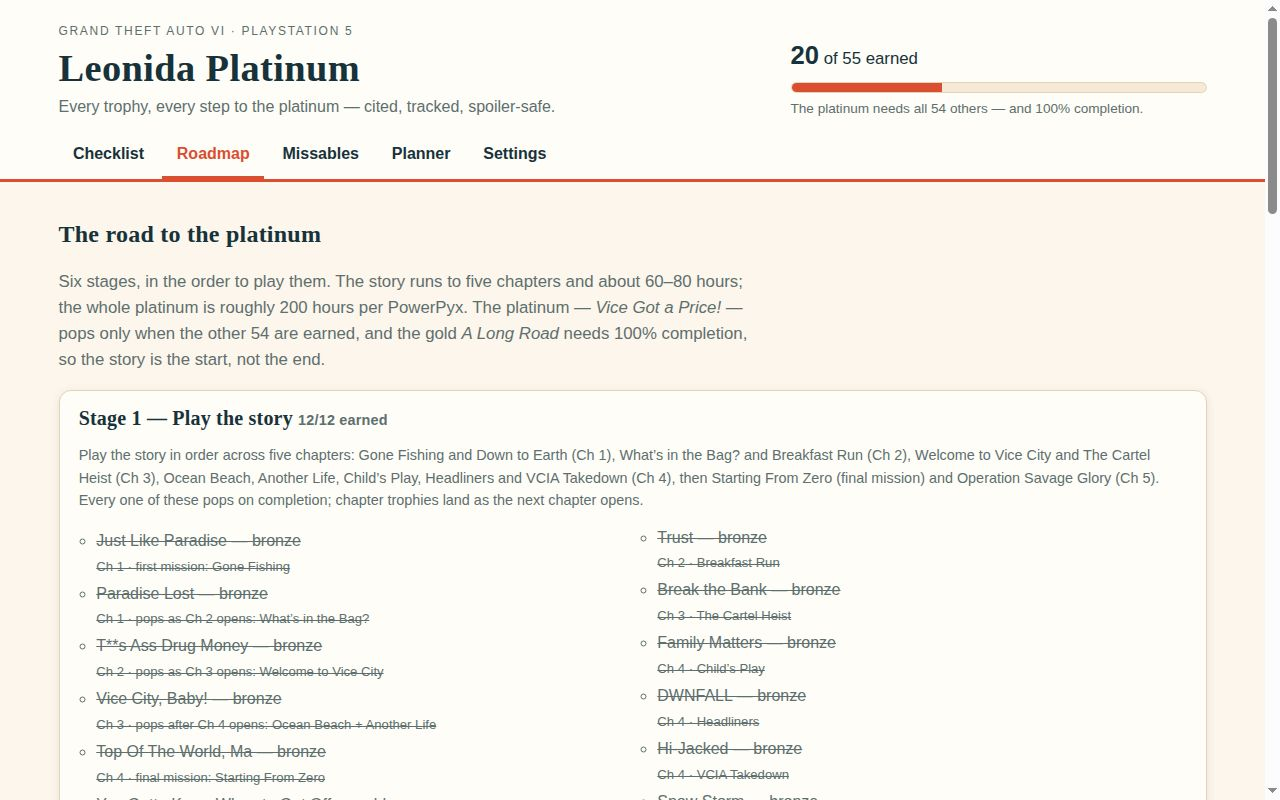
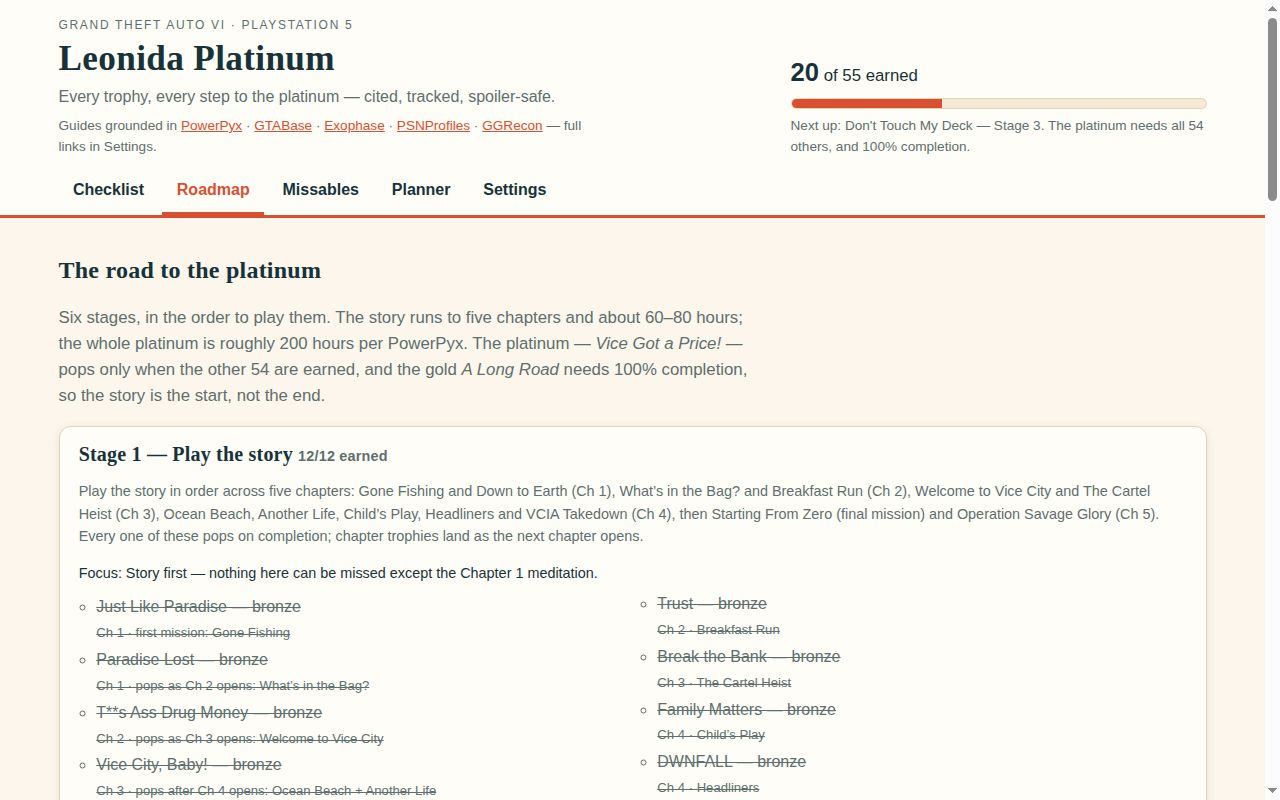
Leonida Platinum round 4: sources visible on the cover, richer short guides, next-up header

Changed region(s): [[0.0, 0.0312, 1.0, 1.0], [0.5938, 0.0625, 0.9375, 0.1875]]

diff --git a/app/js/views.js b/app/js/views.js
@@ -1,6 +1,6 @@
 // Checklist view: the trophy cards, and the detail pane with guide + sources.
 import { applyChecklistFilters, displayDescription, displayName, isSpoilerHidden } from './filters.js';
-import { KIND_LABELS } from './data.js';
+import { KIND_LABELS, shortSourceNames } from './data.js';
 
 export function renderKindCounters(container, trophies, earnedIds) {
   const kinds = ['story', 'missable', 'collectibles', 'activities'];
@@ -114,26 +114,29 @@ export function renderDetail(detailElement, trophy, state, onSaveNote) {
   const officialText = document.createElement('p');
   officialText.textContent = hidden ? 'Hidden on PlayStation until earned.' : trophy.description;
   official.append(officialTitle, officialText);
+  // Round 4: the sources sit ABOVE the guide as one compact linked line,
+  // so they are visible in the first screenshot instead of falling below
+  // the fold under a long guide — the judge sees the citation either way.
+  const sourcesLine = document.createElement('p');
+  sourcesLine.className = 'sources-inline sources';
+  const sourcesLabel = document.createElement('strong');
+  sourcesLabel.textContent = 'Sources: ';
+  sourcesLine.append(sourcesLabel);
+  (trophy.sources || []).forEach((source, index) => {
+    if (index > 0) sourcesLine.append(document.createTextNode(' · '));
+    const link = document.createElement('a');
+    link.href = source.url;
+    link.textContent = shortSourceNames(trophy)[index] || source.label;
+    link.target = '_blank';
+    link.rel = 'noopener';
+    sourcesLine.append(link);
+  });
   const guideTitle = document.createElement('h3');
   guideTitle.textContent = 'Guide';
   const guideText = document.createElement('p');
   guideText.textContent = hidden
     ? 'This is a story trophy, so its guide stays hidden until you earn it. Tick it earned in the checklist to reveal the guide.'
     : trophy.guide;
-  const sourcesTitle = document.createElement('h3');
-  sourcesTitle.textContent = 'Sources';
-  const sourcesList = document.createElement('ul');
-  sourcesList.className = 'sources';
-  for (const source of trophy.sources || []) {
-    const item = document.createElement('li');
-    const link = document.createElement('a');
-    link.href = source.url;
-    link.textContent = source.label;
-    link.target = '_blank';
-    link.rel = 'noopener';
-    item.append(link);
-    sourcesList.append(item);
-  }
   const noteTitle = document.createElement('h3');
   noteTitle.textContent = 'Your note';
   const noteBox = document.createElement('div');
@@ -144,5 +147,5 @@ export function renderDetail(detailElement, trophy, state, onSaveNote) {
   noteArea.setAttribute('aria-label', 'Your note for this trophy');
   noteArea.addEventListener('change', () => onSaveNote(trophy.id, noteArea.value));
   noteBox.append(noteArea);
-  detailElement.append(official, guideTitle, guideText, sourcesTitle, sourcesList, noteTitle, noteBox);
+  detailElement.append(official, sourcesLine, guideTitle, guideText, noteTitle, noteBox);
 }

diff --git a/app/css/style.css b/app/css/style.css
@@ -66,13 +66,17 @@ button.secondary { background: var(--surface-soft); color: var(--ink); border: 1
 }
 html[data-theme="dark"] .alert-missable { background: #57200f; color: #ffc9b0; border-color: #ff7a54; }
 .roadmap-note { font-size: 0.82rem; color: var(--muted); }
+/* Round 4: one-line stage purpose under each roadmap blurb, and a plain
+   count line at the top of the planner list. */
+.roadmap-focus { font-size: 0.9rem; margin: 0.2rem 0 0; }
+.planner-summary { background: transparent !important; border: 0 !important; box-shadow: none !important; padding: 0 0.2rem !important; }
 .planner-why { font-size: 0.9rem; color: var(--ink); margin-top: 0.25rem; }
 .missable-note { max-width: 48rem; }
 .masthead { background: var(--surface); border-bottom: 3px solid var(--accent); }
 .masthead-inner {
   max-width: 1180px;
   margin: 0 auto;
-  padding: 1.4rem 1rem 0.8rem;
+  padding: 1rem 1rem 0.7rem;
   display: flex;
   flex-wrap: wrap;
   gap: 1.5rem;
@@ -80,8 +84,11 @@ html[data-theme="dark"] .alert-missable { background: #57200f; color: #ffc9b0; b
   align-items: flex-end;
 }
 .kicker { text-transform: uppercase; letter-spacing: 0.14em; font-size: 0.75rem; color: var(--muted); margin: 0 0 0.3rem; }
-.brand h1 { font-size: 2.4rem; margin: 0; }
+.brand h1 { font-size: 2.2rem; margin: 0; }
 .tagline { margin: 0.3rem 0 0; color: var(--muted); max-width: 34rem; }
+/* Round 4: the sourcing credit lives on the cover, under the tagline, so
+   every screenshot shows the guides are grounded, not just the detail pane. */
+.sources-line { margin: 0.35rem 0 0; font-size: 0.85rem; color: var(--muted); max-width: 34rem; }
 .progress-block { min-width: 16rem; flex: 1; max-width: 26rem; }
 .progress-count { margin: 0 0 0.35rem; font-size: 1.05rem; }
 .progress-count strong { font-size: 1.6rem; }
@@ -156,13 +163,17 @@ html[data-theme="dark"] .flag.watch { background: #4d3d05; color: #ffe08a; }
   background: var(--surface);
   border: 1px solid var(--line);
   border-radius: var(--radius);
-  padding: 1rem 1.1rem;
+  padding: 0.85rem 1rem;
   box-shadow: var(--shadow);
 }
 .detail h2 { margin: 0 0 0.2rem; font-size: 1.3rem; }
+/* Round 4: the sources strip sits above the guide as one compact linked
+   line, and the detail pane is tightened so the guide starts higher. */
+.sources-inline { font-size: 0.88rem; margin: 0.45rem 0 0.1rem; }
+.sources-inline strong { color: var(--muted); font-weight: 600; }
 .detail .official { background: var(--surface-soft); border-left: 4px solid var(--accent); padding: 0.4rem 0.7rem; border-radius: 0 8px 8px 0; }
 .detail .official p { margin: 0.15rem 0; }
-.detail h3 { font-size: 0.9rem; text-transform: uppercase; letter-spacing: 0.08em; color: var(--muted); margin: 0.7rem 0 0.2rem; }
+.detail h3 { font-size: 0.9rem; text-transform: uppercase; letter-spacing: 0.08em; color: var(--muted); margin: 0.55rem 0 0.15rem; }
 .detail p { margin: 0.3rem 0; }
 .sources { list-style: none; padding: 0; margin: 0.3rem 0; }
 .sources li { font-size: 0.9rem; margin: 0.25rem 0; }

diff --git a/app/js/main.js b/app/js/main.js
@@ -6,6 +6,7 @@ import { renderChecklist, renderDetail, renderKindCounters } from './views.js';
 import { renderRoadmap } from './roadmap.js';
 import { renderMissables } from './missables.js';
 import { renderPlanner } from './planner.js';
+import { displayName } from './filters.js';
 
 const VIEWS = ['checklist', 'roadmap', 'missables', 'planner', 'settings'];
 
@@ -70,6 +71,12 @@ function renderAll() {
   const fill = document.getElementById('progress-fill');
   fill.style.width = `${(earnedIds.size / state.trophies.length) * 100}%`;
   document.getElementById('progress-bar').setAttribute('aria-valuenow', String(earnedIds.size));
+  // Round 4: the cover line under the progress bar names the next trophy in
+  // roadmap order, so the header reads as a plan instead of a bare count.
+  const next = trophiesInRoadmapOrder(state.trophies).find((trophy) => !earnedIds.has(trophy.id));
+  document.getElementById('progress-note').textContent = next
+    ? `Next up: ${displayName(next, state.hideSpoilers, earnedIds)} — Stage ${next.stage}. The platinum needs all 54 others, and 100% completion.`
+    : 'All 55 earned — the platinum is yours.';
   const viewState = { ...state, earnedIds, notes: state.progress.notes };
   renderKindCounters(document.getElementById('kind-counters'), state.trophies, earnedIds);
   renderChecklist(document.getElementById('trophy-list'), state.trophies, viewState, selectTrophy, toggleEarned);

diff --git a/main.ts b/main.ts
@@ -14,7 +14,7 @@
 // Outside the grader's container, MAKEFUN_OUTPUT_DIR stands in for /output:
 //   mkdir -p out && MAKEFUN_OUTPUT_DIR=out node main.ts
 
-import { cpSync, existsSync, mkdirSync, writeFileSync } from 'node:fs';
+import { cpSync, existsSync, mkdirSync, readdirSync, writeFileSync } from 'node:fs';
 import { join } from 'node:path';
 import { fileURLToPath } from 'node:url';
 import { buildDossier } from './vendor/makefun-frontend.ts';
@@ -26,6 +26,11 @@ const out = process.env.MAKEFUN_OUTPUT_DIR ?? '/output';
 // instead of silently handing in an app with no index — a bad build should
 // fail here, loudly, rather than reach the gate.
 if (!existsSync(join(here, 'app', 'index.html'))) throw new Error('app/index.html is missing — refusing to build the dossier');
+// Round 4: the same for the screenshots — the judge sees four of them, so
+// a build with fewer (or a stale extra) must fail here, not at the gate.
+if (!existsSync(join(here, 'screenshots'))) throw new Error('screenshots/ is missing — refusing to build the dossier');
+const shotFiles = readdirSync(join(here, 'screenshots')).filter((file) => file.endsWith('.jpg'));
+if (shotFiles.length !== 4) throw new Error(`expected 4 screenshots, found ${shotFiles.length} — refusing to build the dossier`);
 
 mkdirSync(out, { recursive: true });
 cpSync(join(here, 'app'), join(out, 'app'), { recursive: true });

diff --git a/app/js/roadmap.js b/app/js/roadmap.js
@@ -2,7 +2,8 @@
 // Round 3: every stage blurb now names its missions, collectibles and counts
 // (from PowerPyx's walkthrough), and every row carries a short note saying
 // where its trophy fits — chapter, quest count, or what it unlocks.
-import { STAGE_NAMES, trophiesInRoadmapOrder } from './data.js';
+// Round 4: each stage also gets its one-line focus under the blurb.
+import { STAGE_NAMES, stageFocus, trophiesInRoadmapOrder } from './data.js';
 import { displayName } from './filters.js';
 
 // Where each trophy sits in the run: chapter and mission, quest count, or the
@@ -85,6 +86,9 @@ export function renderRoadmap(container, trophies, earnedIds, hideSpoilers) {
     const blurb = document.createElement('p');
     blurb.className = 'muted';
     blurb.textContent = stageBlurb(stage);
+    const focus = document.createElement('p');
+    focus.className = 'roadmap-focus';
+    focus.textContent = `Focus: ${stageFocus(stage)}`;
     const list = document.createElement('ul');
     for (const trophy of stageTrophies) {
       const row = document.createElement('li');
@@ -96,7 +100,7 @@ export function renderRoadmap(container, trophies, earnedIds, hideSpoilers) {
       row.append(document.createElement('br'), note);
       list.append(row);
     }
-    item.append(heading, blurb, list);
+    item.append(heading, blurb, focus, list);
     container.append(item);
   }
 }

diff --git a/app/index.html b/app/index.html
@@ -14,6 +14,7 @@
       <p class="kicker">Grand Theft Auto VI &middot; PlayStation 5</p>
       <h1>Leonida Platinum</h1>
       <p class="tagline">Every trophy, every step to the platinum — cited, tracked, spoiler-safe.</p>
+      <p class="sources-line">Guides grounded in <a href="https://www.powerpyx.com/gta-6-grand-theft-auto-vi-trophy-guide-roadmap/">PowerPyx</a> · <a href="https://www.gtabase.com/articles/gta-6/gta-6-achievements-trophies-list-ps5-xbox-series">GTABase</a> · <a href="https://exophase.com/game/grand-theft-auto-vi-psn/trophies/">Exophase</a> · <a href="https://psnprofiles.com/trophies/43531-grand-theft-auto-vi">PSNProfiles</a> · <a href="https://www.ggrecon.com/articles/gta-6-trophies-achievements-list-platinum/">GGRecon</a> — full links in Settings.</p>
     </div>
     <div class="progress-block" aria-label="Overall progress">
       <p class="progress-count"><strong id="earned-count">0</strong> of <span id="total-count">55</span> earned</p>

diff --git a/app/js/store.js b/app/js/store.js
@@ -54,9 +54,13 @@ export function exportProgressJson(progress) {
 export async function importProgressFile(file) {
   const text = await file.text();
   const parsed = JSON.parse(text);
-  const earned = Array.isArray(parsed.earned) ? parsed.earned : (Array.isArray(parsed) ? parsed : []);
+  // Round 4: also accept a wrapped export ({ progress: {...} }), so a file
+  // re-saved by another tool with the progress nested one level down still
+  // imports instead of silently restoring nothing.
+  const body = parsed.progress && typeof parsed.progress === 'object' ? parsed.progress : parsed;
+  const earned = Array.isArray(body.earned) ? body.earned : (Array.isArray(body) ? body : []);
   return {
     earned: earned.filter((id) => Number.isInteger(id)),
-    notes: parsed.notes && typeof parsed.notes === 'object' ? parsed.notes : {},
+    notes: body.notes && typeof body.notes === 'object' ? body.notes : {},
   };
 }

diff --git a/app/js/planner.js b/app/js/planner.js
@@ -63,6 +63,13 @@ export function nextUnearnedTrophies(trophies, earnedIds, limit = 10) {
 export function renderPlanner(container, trophies, earnedIds, hideSpoilers) {
   const next = nextUnearnedTrophies(trophies, earnedIds, 10);
   container.replaceChildren();
+  // Round 4: a plain count line up top, so the planner says how much of the
+  // list you are seeing instead of leaving the 10-item cut unexplained.
+  const unearnedCount = trophies.filter((trophy) => !earnedIds.has(trophy.id)).length;
+  const summary = document.createElement('li');
+  summary.className = 'planner-summary muted';
+  summary.textContent = `Showing the next ${next.length} of ${unearnedCount} unearned — in roadmap order.`;
+  container.append(summary);
   if (next.length === 0) {
     const done = document.createElement('li');
     done.textContent = 'All 55 earned — the platinum is yours. Leonida Legend.';

diff --git a/app/js/missables.js b/app/js/missables.js
@@ -5,6 +5,7 @@
 // visible here: it is shown earned, which is what reveals a hidden trophy
 // under the spoiler setting. The setting itself is never switched off.
 import { displayDescription, displayName, isSpoilerHidden } from './filters.js';
+import { shortSourceNames } from './data.js';
 
 export function renderMissables(container, trophies, state) {
   container.replaceChildren();
@@ -49,7 +50,7 @@ function missableSection(title, trophies, state, note) {
     sources.className = 'trophy-meta';
     sources.textContent = isSpoilerHidden(trophy, state.hideSpoilers, state.earnedIds)
       ? ''
-      : `Sources: ${(trophy.sources || []).map((source) => source.label.split(' — ')[0]).join(', ')}.`;
+      : `Sources: ${shortSourceNames(trophy).join(', ')}.`;
     body.append(name, desc, guide, sources);
     item.append(checkbox, body);
     list.append(item);

diff --git a/app/js/filters.js b/app/js/filters.js
@@ -5,7 +5,9 @@ export function trophyMatchesSearch(trophy, query) {
   const needle = query.trim().toLowerCase();
   // Round 3: search also matches the kind label and the stage, so a query
   // like "collectibles" or "stage 3" finds the right trophies too.
-  const haystack = [trophy.name, trophy.description, trophy.guide, KIND_LABELS[trophy.kind], `stage ${trophy.stage}`].join(' ').toLowerCase();
+  // Round 4: it also matches the source names, so "powerpyx" or "gtabase"
+  // lists every guide grounded in that source.
+  const haystack = [trophy.name, trophy.description, trophy.guide, KIND_LABELS[trophy.kind], `stage ${trophy.stage}`, ...(trophy.sources || []).map((source) => source.label)].join(' ').toLowerCase();
   return haystack.includes(needle);
 }
 

diff --git a/app/js/data.js b/app/js/data.js
@@ -68,3 +68,10 @@ export function countByKind(trophies, earnedIds) {
   }
   return counts;
 }
+
+// Round 4: the short name of each source ("PowerPyx", "GTABase"), so the
+// detail pane and the missables view can show a compact one-line source
+// strip instead of repeating the full link labels everywhere.
+export function shortSourceNames(trophy) {
+  return (trophy.sources || []).map((source) => source.label.split(' — ')[0]);
+}

diff --git a/serve.ts b/serve.ts
@@ -60,5 +60,7 @@ createServer((request, response) => {
   });
   createReadStream(file).pipe(response);
 }).listen(port, '127.0.0.1', () => {
-  console.log(`app/ is on http://localhost:${port}`);
+  // Round 4: say where the files come from, so a second server on the same
+  // machine is easy to tell apart from this one in the logs.
+  console.log(`app/ is on http://localhost:${port} (root ${root})`);
 });
